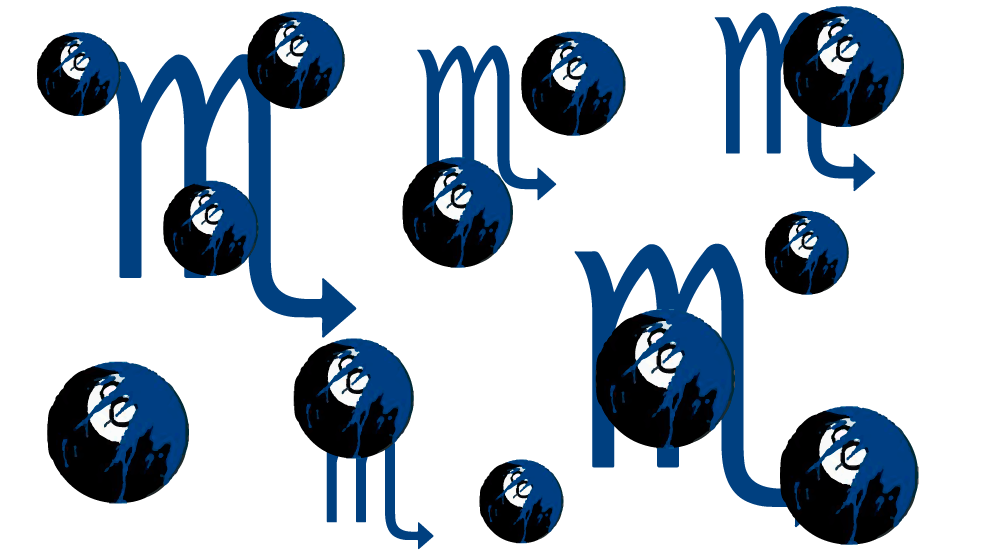
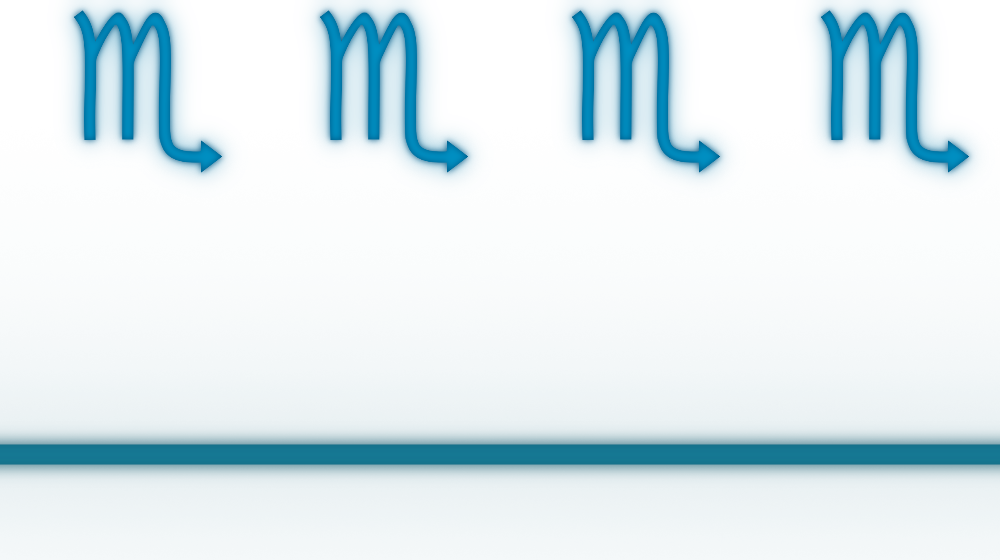
[FEATURE] backgrounds and background theming linting

diff --git a/src/pesterchum.js b/src/pesterchum.js
@@ -1600,26 +1600,28 @@ const customThemeButton = document.querySelector('#theme-custom')
 customThemeButton.addEventListener('click', () => colorDialog.showModal())
 
 // Backgrounds
-const backgroundWrapper= document.querySelector(".background-wrapper")
-const backgroundImage=document.querySelectorAll(".background-image")
-const backgroundImageWrapper=document.querySelector("#background-image-wrapper")
-const storedBackground=window.localStorage.getItem("background")
+const backgroundWrapper = document.querySelector('.background-wrapper')
+const backgroundImage = document.querySelectorAll('.background-image')
+const backgroundImageWrapper = document.querySelector('#background-image-wrapper')
+const storedBackground = window.localStorage.getItem('background')
 
 // Theming model
-class BackgroundImage{
+class BackgroundImage {
   constructor (
     name,
     path,
     alt
-    ) {
+  ) {
     this.name = name
     this.path = path
-    this.alt= alt
+    this.alt = alt
   }
 
   /** Changes the current background src into this one */
   changeBackground () {
-    backgroundImage.forEach(e=>e.src=this.path)
+    backgroundImage.forEach(e => {
+      e.src = this.path
+    })
   }
 }
 // Theme factory
@@ -1633,52 +1635,72 @@ class Background {
    *  alt : alt text for screen reader
    * */
   static new (name, path, alt) {
-    const newInstance = new BackgroundImage(name, path,alt)
+    const newInstance = new BackgroundImage(name, path, alt)
     this.instances.push(newInstance)
     return newInstance
   }
 }
 
 // here comes the background instances
-const poolBackground= Background.new("pool","backgrounds/pool_background.png","pool balls")
-const vriskaBackground= Background.new("vriska","backgrounds/vriska_background.png","blood tained 8 balls and vriska scorpio signs")
-const striderBackground= Background.new("strider","backgrounds/strider_background.png","strider vinil icon scratched and whole")
-const lalondeBackground= Background.new("lalonde","backgrounds/lalonde_background.png","both lalonde icons, a squid and a muttant kitten")
-const redJujuBackground= Background.new("red-juju","backgrounds/red_juju_background.png","a red spiral")
-const greenJujuBackground= Background.new("green-juju","backgrounds/green_juju_background.png","a green spiral")
-const signsBackground= Background.new("signs","backgrounds/signs_background.png","main troll zodiac signs")
-const sbahjBackground= Background.new("sbahj","backgrounds/sbahj_background.png","warned you about the stairs meme")
-const egbertBackground= Background.new("egbert","backgrounds/egbert_background.png","jonh egbert pogo icon")
-const squiddlesBackground= Background.new("squiddles","backgrounds/squiddles_background.png","a bunch of squiddles")
+Background.new('beta', 'backgrounds/beta_kids_background.png', 'beta kids icons, artist: paleWreath')
+Background.new('alpha', 'backgrounds/alpha_kids_background.png', 'alpha kids icons, artist: paleWreath')
+Background.new('mixed', 'backgrounds/mix_kids_background.png', 'mixed kids icons, artist: paleWreath')
+Background.new('derse', 'backgrounds/derse_background.png', 'derse buildings themed, artist: paleWreath')
+Background.new('prospit', 'backgrounds/prospit_background.png', 'prospit buildings, artist: paleWreath')
+Background.new('aradia', 'backgrounds/karkat_background.png', 'karkat themed, artist: paleWreath')
+Background.new('aradia', 'backgrounds/karkalicious_background.png', 'karkalicious so delicious, artist: paleWreath')
+Background.new('aradia', 'backgrounds/aradia_background.png', 'aradia themed, artist: paleWreath')
+Background.new('tavros', 'backgrounds/tavros_background.png', 'tavro themed, artist: paleWreath')
+Background.new('sollux', 'backgrounds/sollux_background.png', 'sollux themed, artist: paleWreath')
+Background.new('nepeta', 'backgrounds/nepeta_background.png', 'nepeta themed, artist: paleWreath')
+Background.new('kanaya', 'backgrounds/kanaya_background.png', 'kanaya themed, artist: paleWreath')
+Background.new('terezi', 'backgrounds/terezi_background.png', 'terezi themed, artist: paleWreath')
+Background.new('vriska', 'backgrounds/vriska_background.png', 'vriska themed, artist: paleWreath')
+Background.new('equius', 'backgrounds/equius_background.png', 'equius themed, artist: paleWreath')
+Background.new('gamzee', 'backgrounds/gamzee_background.png', 'gamzee themed, artist: paleWreath')
+Background.new('eridan', 'backgrounds/eridian_background.png', 'eridan themed, artist: paleWreath')
+Background.new('feferi', 'backgrounds/feferi_background.png', 'feferi themed, artist: paleWreath')
+Background.new('red-juju', 'backgrounds/red_juju_background.png', 'a red spiral')
+Background.new('green-juju', 'backgrounds/green_juju_background.png', 'a green spiral')
+Background.new('pool', 'backgrounds/pool_background.png', 'pool balls')
+Background.new('caliborn', 'backgrounds/caliborn_background.png', 'doodles and drawings made by caliborn, artist:')
+Background.new('strider', 'backgrounds/strider_background.png', 'strider vinil icon scratched and whole')
+Background.new('lalonde', 'backgrounds/lalonde_background.png', 'both lalonde icons, a squid and a muttant kitten')
+Background.new('signs', 'backgrounds/signs_rainbow_background.png', 'main troll zodiac signs')
+Background.new('sbahj', 'backgrounds/sbahj_background.png', 'warned you about the stairs meme')
+Background.new('egbert', 'backgrounds/egbert_background.png', 'jonh egbert pogo icon')
+Background.new('squiddles', 'backgrounds/squiddles_background.png', 'a bunch of squiddles')
+Background.new('dirk-brr', 'backgrounds/dirkbrr_background.png', 'a circle of dirk faces, artist: au dave')
+Background.new('dave-brr', 'backgrounds/davebrr_background.png', 'a circle of handrawed dave discs, artist: au dave')
 
 // background buttons
-Background.instances.forEach(e=>{
-  backgroundWrapper.innerHTML+= `
+Background.instances.forEach(e => {
+  backgroundWrapper.innerHTML += `
   <button class="background-button" id="${e.name}">
     <img src="${e.path}" alt="${e.path}"/> 
   </button>
 `
 })
 
-/** Load the background stored on localStorage background*/
-const loadBackground=()=>{
-  const background = window.localStorage.getItem("background") 
+/** Load the background stored on localStorage background */
+const loadBackground = () => {
+  const background = window.localStorage.getItem('background')
   background && Background.instances[background].changeBackground()
 }
-//loads the last background
+// loads the last background
 storedBackground && loadBackground()
 
 // Background buttons actions
-const buttons= document.querySelectorAll(".background-button")
-buttons.forEach((e,i)=>{
-  e.addEventListener('click',()=>{
+const buttons = document.querySelectorAll('.background-button')
+buttons.forEach((e, i) => {
+  e.addEventListener('click', () => {
     Background.instances[i].changeBackground()
-    window.localStorage.setItem("background",i)
-    backgroundImageWrapper.style.display="flex"
+    window.localStorage.setItem('background', i)
+    backgroundImageWrapper.style.display = 'flex'
   })
 })
 
 // Reset background action
-document.querySelector("#reset-background").addEventListener("click",()=>{
-  backgroundImageWrapper.style.display="none"
+document.querySelector('#reset-background').addEventListener('click', () => {
+  backgroundImageWrapper.style.display = 'none'
 })

diff --git a/style.css b/style.css
@@ -116,6 +116,7 @@ margin-block-start: 1rem;
 }
 
 .background-button{
+  background-color: var(--outside-color);
   padding:0;
   height: 100px;
 }
